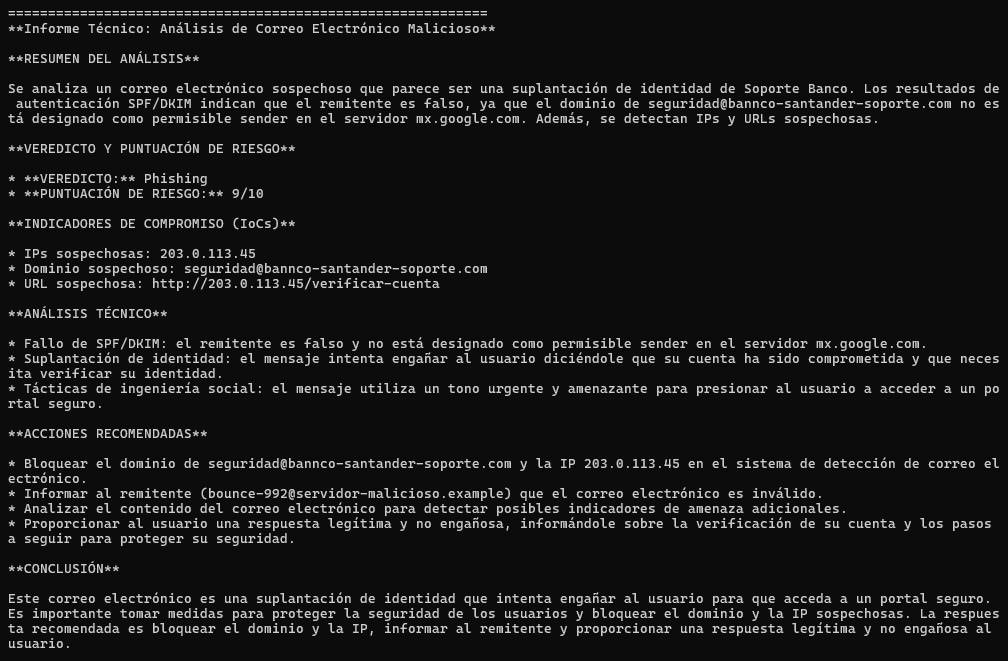
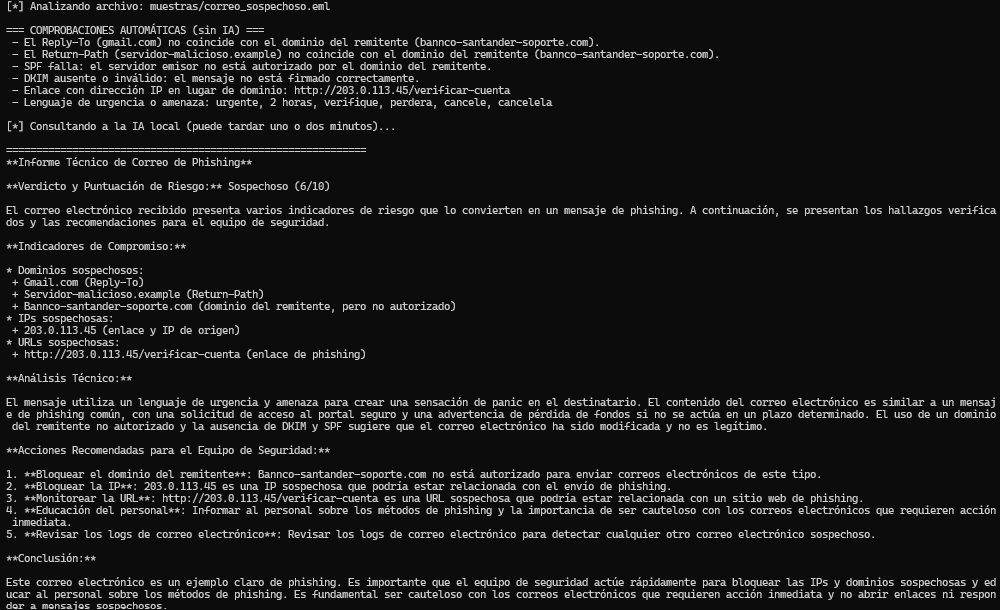
Anado comprobaciones automaticas y documento la calidad del informe

diff --git a/analizador.py b/analizador.py
@@ -1,11 +1,25 @@
 import email
-from email import policy
 import re
 import sys
+from email import policy
+from email.utils import parseaddr
+
 import requests
 
 OLLAMA_URL = "http://localhost:11434/api/generate"
 MODELO = "llama3.2"
+
+PALABRAS_URGENCIA = [
+    "urgente", "inmediatamente", "2 horas", "24 horas", "bloqueada",
+    "bloqueado", "suspendida", "verifique", "perderá", "perdera",
+    "cancele", "cancelela",
+]
+
+
+def dominio_de(direccion):
+    """Devuelve el dominio de una dirección tipo 'Nombre <usuario@dominio.com>'."""
+    _, correo = parseaddr(str(direccion))
+    return correo.split("@")[-1].lower() if "@" in correo else ""
 
 
 def extraer_datos_eml(ruta_archivo):
@@ -17,11 +31,11 @@ def extraer_datos_eml(ruta_archivo):
         sys.exit(1)
 
     datos = {
-        "from": msg.get("From", "Desconocido"),
-        "reply_to": msg.get("Reply-To", "No especificado"),
-        "return_path": msg.get("Return-Path", "No especificado"),
-        "subject": msg.get("Subject", "Sin asunto"),
-        "auth_results": msg.get("Authentication-Results", "Sin registros SPF/DKIM"),
+        "from": str(msg.get("From", "Desconocido")),
+        "reply_to": str(msg.get("Reply-To", "")),
+        "return_path": str(msg.get("Return-Path", "")),
+        "subject": str(msg.get("Subject", "Sin asunto")),
+        "auth_results": str(msg.get("Authentication-Results", "")),
         "cuerpo": "",
     }
 
@@ -33,34 +47,65 @@ def extraer_datos_eml(ruta_archivo):
     else:
         datos["cuerpo"] = msg.get_content()
 
-    # Extraer URLs e IPs con expresiones regulares
+    texto = datos["cuerpo"] + " " + datos["auth_results"]
     datos["urls"] = list(set(re.findall(r'https?://[^\s<>"]+|www\.[^\s<>"]+', datos["cuerpo"])))
-    datos["ips"] = list(set(re.findall(r"\b(?:\d{1,3}\.){3}\d{1,3}\b", datos["cuerpo"] + " " + str(datos["auth_results"]))))
-
+    datos["ips"] = list(set(re.findall(r"\b(?:\d{1,3}\.){3}\d{1,3}\b", texto)))
     return datos
 
 
-def analizar_con_ia(datos):
+def comprobaciones_automaticas(datos):
+    """Hallazgos verificables con código, sin depender de la IA."""
+    hallazgos = []
+    dom_from = dominio_de(datos["from"])
+    dom_reply = dominio_de(datos["reply_to"])
+    dom_return = dominio_de(datos["return_path"])
+    auth = datos["auth_results"].lower()
+    texto = (datos["subject"] + " " + datos["cuerpo"]).lower()
+
+    if dom_reply and dom_from and dom_reply != dom_from:
+        hallazgos.append(f"El Reply-To ({dom_reply}) no coincide con el dominio del remitente ({dom_from}).")
+    if dom_return and dom_from and dom_return != dom_from:
+        hallazgos.append(f"El Return-Path ({dom_return}) no coincide con el dominio del remitente ({dom_from}).")
+    if "spf=fail" in auth or "spf=softfail" in auth:
+        hallazgos.append("SPF falla: el servidor emisor no está autorizado por el dominio del remitente.")
+    if "dkim=none" in auth or "dkim=fail" in auth:
+        hallazgos.append("DKIM ausente o inválido: el mensaje no está firmado correctamente.")
+    for url in datos["urls"]:
+        if re.match(r"https?://\d{1,3}(?:\.\d{1,3}){3}", url):
+            hallazgos.append(f"Enlace con dirección IP en lugar de dominio: {url}")
+    encontradas = [p for p in PALABRAS_URGENCIA if p in texto]
+    if encontradas:
+        hallazgos.append("Lenguaje de urgencia o amenaza: " + ", ".join(encontradas))
+    return hallazgos
+
+
+def analizar_con_ia(datos, hallazgos):
+    lista_hallazgos = "\n".join(f"- {h}" for h in hallazgos) or "- Ninguno"
     prompt = f"""
-Eres un analista senior de un Centro de Operaciones de Seguridad (SOC).
-Analiza los siguientes artefactos de un correo electrónico y genera un informe técnico breve, en español.
+Eres un analista de un Centro de Operaciones de Seguridad (SOC).
+Analiza este correo y redacta un informe técnico breve, en español.
+
+HALLAZGOS VERIFICADOS AUTOMÁTICAMENTE (son hechos, no los contradigas):
+{lista_hallazgos}
 
 DATOS DEL CORREO:
 - Remitente (From): {datos['from']}
-- Responder a (Reply-To): {datos['reply_to']}
-- Ruta de retorno (Return-Path): {datos['return_path']}
-- Resultados de autenticación (SPF/DKIM): {datos['auth_results']}
+- Responder a (Reply-To): {datos['reply_to'] or 'No especificado'}
+- Ruta de retorno (Return-Path): {datos['return_path'] or 'No especificado'}
+- Resultados de autenticación: {datos['auth_results'] or 'No disponibles'}
 - Asunto: {datos['subject']}
 - URLs detectadas: {datos['urls']}
 - IPs detectadas: {datos['ips']}
-- Cuerpo del mensaje:
+- Cuerpo:
 {datos['cuerpo']}
 
-ESTRUCTURA OBLIGATORIA DE RESPUESTA:
-1. VEREDICTO Y PUNTUACIÓN DE RIESGO: (Legítimo / Sospechoso / Phishing - X/10)
-2. INDICADORES DE COMPROMISO (IoCs): IPs, dominios y URLs sospechosas.
-3. ANÁLISIS TÉCNICO: fallos de SPF/DKIM, suplantación de identidad y tácticas de ingeniería social.
-4. ACCIONES RECOMENDADAS: qué debería hacer el equipo SOC.
+ESTRUCTURA DEL INFORME:
+1. VEREDICTO Y PUNTUACIÓN DE RIESGO (Legítimo / Sospechoso / Phishing, de 0 a 10).
+2. INDICADORES DE COMPROMISO: dominios, IPs y URLs sospechosas.
+3. ANÁLISIS TÉCNICO: apóyate en los hallazgos verificados y en la ingeniería social del texto.
+4. ACCIONES RECOMENDADAS para el equipo de seguridad.
+
+REGLAS: nunca recomiendes responder al remitente, contactarlo ni abrir los enlaces.
 """
 
     try:
@@ -76,15 +121,19 @@ ESTRUCTURA OBLIGATORIA DE RESPUESTA:
 
 
 if __name__ == "__main__":
-    ruta = "muestras/correo_sospechoso.eml"
+    ruta = sys.argv[1] if len(sys.argv) > 1 else "muestras/correo_sospechoso.eml"
     print(f"[*] Analizando archivo: {ruta}")
-    artefactos = extraer_datos_eml(ruta)
-    print("[*] Datos extraídos:")
-    print("    From:", artefactos["from"])
-    print("    URLs:", artefactos["urls"])
-    print("    IPs:", artefactos["ips"])
-    print("[*] Consultando a la IA local (puede tardar uno o dos minutos)...\n")
-    informe = analizar_con_ia(artefactos)
+    datos = extraer_datos_eml(ruta)
+
+    hallazgos = comprobaciones_automaticas(datos)
+    print("\n=== COMPROBACIONES AUTOMÁTICAS (sin IA) ===")
+    for h in hallazgos:
+        print(" -", h)
+    if not hallazgos:
+        print(" - Ningún indicador detectado")
+
+    print("\n[*] Consultando a la IA local (puede tardar uno o dos minutos)...\n")
+    informe = analizar_con_ia(datos, hallazgos)
     print("=" * 60)
     print(informe)
     print("=" * 60)

diff --git a/README.md b/README.md
@@ -1,6 +1,6 @@
 # Analizador de phishing con IA local
 
-Herramienta en Python que automatiza el triaje inicial de correos sospechosos (`.eml`). Extrae cabeceras, URLs e IPs con expresiones regulares y pide a un modelo de lenguaje local (Llama 3.2 vía Ollama) un informe tipo SOC. Todo se ejecuta en local: ningún dato sale del equipo.
+Herramienta en Python que automatiza el triaje inicial de correos sospechosos (`.eml`) en dos capas: primero **comprobaciones automáticas verificables con código** (sin IA) y después un **informe redactado por un modelo de lenguaje local** (Llama 3.2 vía Ollama). Todo se ejecuta en local: ningún dato sale del equipo.
 
 ## Problema que resuelve
 
@@ -9,18 +9,38 @@ Los analistas de un SOC revisan a diario correos reportados por usuarios. Extrae
 ## Cómo funciona
 
 ```text
-[.eml] -> [Parser Python + regex] -> [Cabeceras, URLs, IPs] -> [Llama 3.2 en Ollama] -> [Informe]
+[.eml] -> [Parser Python] -> [Comprobaciones automáticas] -> [Llama 3.2 en Ollama] -> [Informe]
 ```
 
-1. Lee el archivo `.eml` con la librería estándar `email`.
-2. Extrae From, Reply-To, Return-Path, resultados de autenticación, URLs e IPs.
-3. Envía esos datos a Ollama con un prompt de analista SOC y muestra el informe.
+1. Lee el archivo `.eml` con la librería estándar `email` y extrae cabeceras, URLs e IPs.
+2. **Comprobaciones automáticas (sin IA):** Reply-To o Return-Path que no coinciden con el remitente, SPF o DKIM fallidos, enlaces con IP en lugar de dominio y lenguaje de urgencia.
+3. Envía los datos y los hallazgos a Ollama, con la instrucción de no contradecirlos y de **no recomendar nunca responder al remitente ni abrir enlaces**.
 
-## Evidencia de ejecución
+## Resultado de ejemplo
+
+Correo ficticio incluido en `muestras/`. La IP `203.0.113.45` está reservada para documentación y no corresponde a ningún servidor real.
+
+```text
+=== COMPROBACIONES AUTOMÁTICAS (sin IA) ===
+ - El Reply-To (gmail.com) no coincide con el dominio del remitente (bannco-santander-soporte.com).
+ - El Return-Path (servidor-malicioso.example) no coincide con el dominio del remitente (bannco-santander-soporte.com).
+ - SPF falla: el servidor emisor no está autorizado por el dominio del remitente.
+ - DKIM ausente o inválido: el mensaje no está firmado correctamente.
+ - Enlace con dirección IP en lugar de dominio: http://203.0.113.45/verificar-cuenta
+ - Lenguaje de urgencia o amenaza: urgente, 2 horas, verifique, perdera, cancele, cancelela
+```
 
 ![Ejecución del analizador](captura.png)
 
-El correo de `muestras/` es ficticio. La IP `203.0.113.45` está reservada para documentación y no corresponde a ningún servidor real.
+## Calidad observada del informe de la IA
+
+Una primera versión, que dejaba todo el análisis al modelo, recomendó "informar al remitente" y no señaló que el Reply-To era de Gmail. Tras mover esas comprobaciones al código y añadir reglas al *prompt*:
+
+- El informe ya no recomienda contactar al remitente y marca el Reply-To como sospechoso.
+- **Sigue fallando el veredicto:** dio "Sospechoso (6/10)" mientras el propio texto lo calificaba de phishing, y antes había dado 9/10 para el mismo correo. La puntuación del modelo **no es fiable**.
+- **Razona mal en algún punto:** afirmó que la falta de SPF y DKIM sugiere que el correo "ha sido modificado", cosa que no se deduce de esos datos.
+
+Por eso el informe de la IA es un **borrador que debe revisar una persona**.
 
 ## Cómo ejecutarlo (Windows)
 
@@ -35,13 +55,18 @@ python -m pip install -r requirements.txt
 python analizador.py
 ```
 
-## Limitaciones observadas
+Para analizar otro correo: `python analizador.py ruta\al\correo.eml`.
 
-- El modelo local comete errores. En la prueba recomendó "informar al remitente", algo que no se debe hacer ante un phishing, y no destacó que el `Reply-To` (Gmail) no coincide con el remitente. El informe es un borrador que debe revisar una persona.
+## Limitaciones
+
+- Solo se ha probado con **un correo ficticio** y un modelo (Llama 3.2).
+- Las comprobaciones son reglas simples: la lista de palabras de urgencia está en español y no se detectan dominios que imitan a una marca (como `bannco-santander-soporte.com`).
 - Los correos solo en HTML, sin parte de texto plano, no se analizan bien.
-- No hay comprobación de reputación de URLs e IPs.
+- No se consulta la reputación de IPs ni URLs.
 
 ## Próximos pasos
 
-- Añadir comprobaciones automáticas de discrepancias (From frente a Reply-To) sin depender de la IA.
+- Calcular la **puntuación de riesgo con reglas** (número y gravedad de hallazgos) en lugar de dejarla al modelo.
+- Detectar dominios parecidos a marcas conocidas.
 - Consultar VirusTotal o AbuseIPDB para la reputación de IPs y URLs.
+- Probar con más correos, incluidos legítimos, para medir los falsos positivos.
